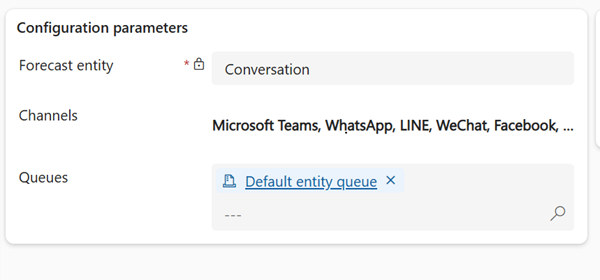
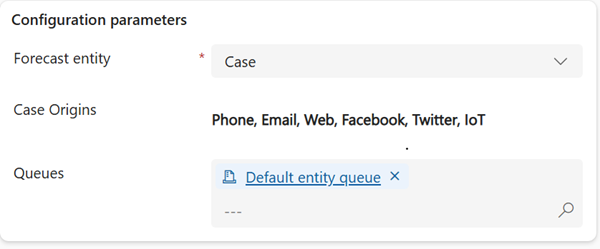
fix(twl300): correct service environment setup guidance

diff --git a/docs/Ex02_Service_Environment/04.md b/docs/Ex02_Service_Environment/04.md
@@ -13,40 +13,43 @@ In this section, you'll import historical contacts, accounts, and cases into you
 
 ## Task 12: Update the Origin column in your environment
 
-1. In the Excel workbook there are references to X and Chat as part of the **Origin** column.  Neither of these are in your demo tenant which means we will get an error when we attempt to import cases. To fix this we are going to update the Origin column.
+1. In the Excel workbook there are references to X and Chat as part of the **Origin** column. Neither of these are in your demo tenant which means we will get an error when we attempt to import cases. To fix this we are going to update the Origin column.
 
-    - In a new browser tab, go to Https://make.powerapps.com.
+   - In a new browser tab, go to https://make.powerapps.com.
 
-2. In the left navigation pane, select **Tables**.
+2. Make sure you are in the correct environment. If not, select the environment drop-down in the top-right corner and select the correct environment.
 
-3. Switch the view to all tables and locate the **Case** table.
+3. In the left navigation pane, select **Tables**.
 
-4. On the **Case** tables **Properties** screen, select **Columns**.
+4. Switch the view to **All** to display all tables, locate and select the **Case** table.
 
-5. Locate and open the **Origin** column.
+5. On the **Case** table page, in the **Schema** section, select **Columns**.
 
-6. Under the **Sync this choice with** field, select **Edit Choice**.
+6. Select **All columns**. Then locate and open the **Origin** column.
 
-7. Locate the **Twitter** choice option, and change the **Label** to **X**.
+7. Under the **Sync this choice with** field, select **Edit Choice**.
 
-8. Select + **New Choice**.
+8. Locate the **Twitter** choice option, and change the **Label** to **X**.
 
-9. Set the **Label** to **Chat.**
+9. Select + **New Choice**.
+
+10. Set the **Label** to **Chat**.
     Your completed Origin Column should resemble the image below: (Do not worry if your values do not match exactly.  We are only concerned with the Labels.)
 
     ![image031.png](../../media/image031.png)
 
+11. Select **Save** to apply the changes to the Origin column.
 ---
 
 ## Task 13: Import supporting Contacts into your environment
 
-1. Open the Customer Service Workspace in your environment.
+1. Open the **Copilot Service Workspace** in your environment.
 
 2. Expand the **site-map**.
 
-3. Using the Navigation on the left, select **Contacts**.
+3. Using the left navigation pane, select **Contacts**.
 
-4. On the **My Active Contact** screen, select **Import from Excel**  and then select **CSV**.
+4. On the **My Active Contact** screen, select the ellipsis (**...**), select  **Import from Excel**,  and then select **Import from CSV**.
 
 5. Select **Choose File**.
 
@@ -56,7 +59,7 @@ In this section, you'll import historical contacts, accounts, and cases into you
 
 7. Select **Next**.
 
-8. On the Import from CSV screen, select **Review Mapping**.
+8. On the **Import from CSV** screen, select **Review Mapping**.
 
     ![image033.png](../../media/image033.png)
 
@@ -72,34 +75,31 @@ In this section, you'll import historical contacts, accounts, and cases into you
 
     ![image034.png](../../media/image034.png)
 
-    > 
-    >   To monitor the progress, select **Track progress**.
+    > To monitor the progress, select **Track progress**.
 
-    >   The contacts that you import here will be used as Primary Contacts for the accounts you are importing next, you will NEED TO WAIT until all of the contacts have been imported.
-
-    > 
+    > The contacts that you import here will be used as Primary Contacts for the accounts you are importing next, you will NEED TO WAIT until all of the contacts have been imported.
 
 ---
 
 ## Task 14: Import supporting accounts into your environment
 
-1. If necessary, open the **Customer Service Workspace** in your environment.
+1. If necessary, open the **Copilot Service Workspace** in your environment.
 
 2. Expand the site-map.
 
 3. In the left navigation pane, select **Accounts**.
 
-4. On the **My Active Accounts** screen, select **Import from Excel** > **CSV**
+4. On the **My Active Accounts** screen, select **Import from Excel** > **Import from CSV**
 
 5. Select **Choose File**.
 
     ![image035.png](../../media/image035.png)
 
-6. Select the Contacts file included in your materials and select Open.
+6. Select the **Accounts** file included in your materials and select Open.
 
 7. Select **Next**.
 
-8. On the Import from CSV screen, select **Review Mapping**  .
+8. On the **Import from CSV** screen, select **Review Mapping**  .
 
     ![image036.png](../../media/image036.png)
 
@@ -113,24 +113,21 @@ In this section, you'll import historical contacts, accounts, and cases into you
 
     ![image037.png](../../media/image037.png)
 
-    > 
-    >   To monitor the progress, select **Track progress**.
+    > To monitor the progress, select **Track progress**.
 
-    >   The Accounts that you import here will be used as Customers for the Cases you are importing next; you will NEED TO WAIT until all of the Accounts have been imported.
-
-    > 
+    > The Accounts that you import here will be used as Customers for the Cases you are importing next; you will need to wait until all of the Accounts have been imported.
 
 ---
 
 ## Task 15: Import supporting cases into your environment
 
-1. If necessary, open the Customer Service Workspace in your environment.
+1. If necessary, open the **Copilot Service Workspace** in your environment.
 
 2. Expand the site-map.
 
 3. In the left navigation pane, select **Cases**.
 
-4. On the My Active Accounts screen, select **Import from Excel** and then select **CSV**.
+4. On the My Active Accounts screen, select **Import from Excel** and then select **Import from CSV**.
 
 5. Select **Choose File**.
 
@@ -146,7 +143,7 @@ In this section, you'll import historical contacts, accounts, and cases into you
 
     1. In the **Name your data map** field, enter `Cases for Intent Agent`.
 
-    1. Map the **Origin (OptionSet)** to **Origin**.
+    1. Map the **Origin** to **Origin (OptionSet)**.
 
     1. Set all the **Do not Modify** fields to **Ignore**.
 
@@ -158,12 +155,8 @@ In this section, you'll import historical contacts, accounts, and cases into you
 
     ![image039.png](../../media/image039.png)
 
-    > 
-    >   To monitor the progress, select **Track progress**.
-
-    >   It will take about 6 hours for all of this information to import. While you can continue to use your system during that time, it is recommended that you do not move on to the next Exercise until the import job has been completed.
-
-    > 
+    > To monitor the progress, select **Track progress**.
+    > It will take about 6 hours for all of this information to import. While you can continue to use your system during that time, it is recommended that you do not move on to the next Exercise until the import job has been completed.
 
 ---
 

diff --git a/docs/Ex02_Service_Environment/03.md b/docs/Ex02_Service_Environment/03.md
@@ -58,7 +58,7 @@ For service representatives to be scheduled for activities, you must create a bo
 
     ![bgk4n3o1.jpg](../../media/bgk4n3o1.jpg)
 
-4. In the left pane, In the **Operations** section, select **Workforce management**.
+4. In the left navigation pane, in the **Operations** section, select **Workforce management**.
 
     ![wubxabyo.jpg](../../media/wubxabyo.jpg)
 
@@ -78,7 +78,7 @@ For service representatives to be scheduled for activities, you must create a bo
 
     ![s8i3bl1v.jpg](../../media/s8i3bl1v.jpg)
 
-9. On the **Skills Configuration** tile, select the vertical ellipses (**…**) and then select **+ New Bookable Resource**.
+9. On the **Skills Configuration** tile, in the **Bookable Resources (User)** section, select **+ New Bookable Resource**. If the command isn't visible, select the vertical ellipses (**⋮**), and then select **+ New Bookable Resource**.
 
     ![p65z9ts0.jpg](../../media/p65z9ts0.jpg)
 
@@ -115,7 +115,7 @@ For service representatives to be scheduled for activities, you must create a bo
 
     ![e380qm0x.jpg](../../media/e380qm0x.jpg)
 
-15. On the command bar for the calendar, select **+ New** and then select **Workhing hours**.
+15. On the command bar for the calendar, select **+ New** and then select **Working hours**.
 
     ![4ggwubr5.jpg](../../media/4ggwubr5.jpg)
 
@@ -133,7 +133,7 @@ For service representatives to be scheduled for activities, you must create a bo
 
     ![j4dirk98.jpg](../../media/j4dirk98.jpg)
 
-17. Repeat Steps 7 through 11 to create bookable resource records and define working hours for the following users:
+17. Repeat Steps 7 through 16 to create bookable resource records and define working hours for the following users:
 
     - Alan Steiner
 
@@ -161,7 +161,7 @@ For service representatives to be scheduled for activities, you must create a bo
 
 ## Task 06: Create shift activity types
 
-1. Open the Copilot Service admin center app.
+1. Open the **Copilot Service admin center** app.
 
 2. In the left navigation pane, select **Workforce management**. Locate the **Shift and schedule management** section.
 
@@ -225,7 +225,7 @@ For service representatives to be scheduled for activities, you must create a bo
 
     ![eonlry86.jpg](../../media/eonlry86.jpg)
 
-4. In the left pane, in the **Workforce management** section, select **Manage External Data**.
+4. In the left navigation pane, in the **Workforce management** section, select **Manage External Data**.
 
    > At the top left of the page, you may need to select the three parallel lines to see the left pane.
 
@@ -307,7 +307,7 @@ For service representatives to be scheduled for activities, you must create a bo
 
 ## Task 08: Create short-term forecasts
 
-1. In **Copilot Service Workspace**, select **Workforce Management** and then select **Forecasting**.
+1. In **Copilot Service Workspace**, under **Workforce Management**, select **Forecasting**.
 
     ![fqusbcxf.jpg](../../media/fqusbcxf.jpg)
 
@@ -403,17 +403,15 @@ Now that you have created a short-term forecast, you will create a long-term for
 
 ## Task 10: Configure short-term case forecasts
 
-1. In **Copilot Service Workspace**, select **Workforce Management** and then select **Forecasting**.
+1. In **Copilot Service Workspace**, under **Workforce Management**, select **Forecasting**.
 
     ![fqusbcxf.jpg](../../media/fqusbcxf.jpg)
 
-2. On the command bar, select **+ New** and then select **Short Term forecast scenario**.
+2. On the command bar, select **+ New** and then select **Short Term Forecast**.
 
     ![5jfwicv4.jpg](../../media/5jfwicv4.jpg)
 
-3. Select **Short Term forecast scenario**.
-
-4. Configure the forecast as follows:
+3. Configure the forecast as follows:
 
     - **Name:** `Sept Short Term - Case`
 
@@ -425,7 +423,7 @@ Now that you have created a short-term forecast, you will create a long-term for
 
     ![image024.png](../../media/image024.png)
 
-5. Configure the **Historical data** section as follows:
+4. Configure the **Historical data** section as follows:
 
     - **Data source:** External
 
@@ -435,7 +433,7 @@ Now that you have created a short-term forecast, you will create a long-term for
 
     ![image025.png](../../media/image025.png)
 
-6. In the **Configuration parameters** section, configure as follows:
+5. In the **Configuration parameters** section, configure as follows:
 
     - **Forecast entity:** **Case**
 
@@ -451,9 +449,9 @@ Now that you have created a short-term forecast, you will create a long-term for
 
     ![217d0b8z.jpg](../../media/217d0b8z.jpg)
 
-7. On the command bar, select **Save**.
+6. On the command bar, select **Save**.
 
-8. On the command bar, select **Create New Snapshot** and then select **Yes**. This schedules the scenario to be run. Select **OK**.
+7. On the command bar, select **Create New Snapshot** and then select **Yes**. This schedules the scenario to be run. Select **OK**.
 
     ![u38659ti.jpg](../../media/u38659ti.jpg)
 
@@ -495,15 +493,17 @@ Now that you have created a short-term forecast, you will create a long-term for
 
 5. In the **Configuration parameters** section, configure as follows:
 
-    - **Forecast entity:** Conversation
+    - **Forecast entity:** Case
 
-    - **Channels:** Select All
+    - **Case Origins:** Select All
 
     - **Queues:** `Default entity queue`
 
     ![image026.png](../../media/image026.png)
 
-6. On the command bar, select **Create New Snapshot** and then select **Yes**. This schedules the scenario to be run. Select **OK**.
+6. Select **Save**.
+
+7. On the command bar, select **Create New Snapshot** and then select **Yes**. This schedules the scenario to be run. Select **OK**.
 
     - Close the **Sept Long Term - Case** tab.
 

diff --git a/docs/Ex02_Sales_Environment/01.md b/docs/Ex02_Sales_Environment/01.md
@@ -35,10 +35,7 @@ In this section, you'll deploy the Demo Hub solution template to provision a dem
 
     ![scmcu069.jpg](../../media/scmcu069.jpg)
 
-    > 
-    >   The process of submitting your request to the queue can take several minutes. It may take one to two hours for environment provisioning to complete.
-
-    > 
+   >   The process of submitting your request to the queue can take several minutes. It may take one to two hours for environment provisioning to complete.
 
 6. The Demo Hub page shows your environment. Verify that your environment status is set to **Ready**.
 
@@ -46,10 +43,7 @@ In this section, you'll deploy the Demo Hub solution template to provision a dem
 
 7. Note the environment details from the Demo Hub page for use in subsequent tasks.
 
-    > 
-    >   The password for the demo environment is automatically generated and will be different from the password for the MDX tenant. You'll need to use the password for the demo environment for the subsequent tasks.
-
-    > 
+   > The password for the demo environment is automatically generated and will be different from the password for the MDX tenant. You'll need to use the password for the demo environment for the subsequent tasks.
 
 ---
 

diff --git a/docs/Ex02_Service_Environment/02.md b/docs/Ex02_Service_Environment/02.md
@@ -31,7 +31,7 @@ Your demo tenant users may be different from the ones listed (For example, you h
 
     - Alex Baker
 
-    - Alica Thomber
+    - Alicia Thomber
 
     - Amy Alberts
 
@@ -53,7 +53,7 @@ Your demo tenant users may be different from the ones listed (For example, you h
 
 ### 02: Check the configuration for existing user accounts
 
->   Repeat this set of steps to configure each existing user account.
+> Repeat this set of steps to configure each existing user account.
 
 1. Select a user account.
 
@@ -199,9 +199,6 @@ As part of the data import process, we are going to be we are going to be adding
     - **System Administrator**
 
     - **Workforce Management application access**
-
-   > [!IMPORTANT]
-   > The **Workforce Management application access** role may not be available. If the role is not listed, assign the available Customer Service roles shown in your environment and continue with the lab.
 
 ---
 

diff --git a/docs/Ex02_Service_Environment/01.md b/docs/Ex02_Service_Environment/01.md
@@ -23,7 +23,7 @@ You've selected the **Service Transformation with AI** workshop. In this task, y
 ---
 
 > [!NOTE]
-> If the DemoHub URL is not accessible, go to [Dynamics 365](https://www.microsoft.com/en-us/dynamics-365), select **Try for free**, then select **Dynamics 365 Contact Center** trial. Enter your **Job Title**, **Country/region**, and **Phone number**, then select **Submit**.
+> If the DemoHub URL is not accessible, go to [Dynamics 365](https://www.microsoft.com/en-us/dynamics-365), select **Try for free**, then select **Dynamics 365 Customer Service** trial. Enter your **Job Title**, **Country/region**, and **Phone number**, then select **Submit**.
 
 [← Select a workshop](../Ex00/00_03.html){: .btn .mr-2 }
 [Configure users and licenses →](02.html){: .btn .btn-purple }

diff --git a/docs/Ex00/00_01.md b/docs/Ex00/00_01.md
@@ -11,7 +11,7 @@ Before you create a demo environment you must request a tenant.
 
 There are limitations to the number of demo tenants that you can claim. Demo tenants expire. You can request an extension for a demo tenant. You can delete existing tenants.
 
-{: .note }
+> [!NOTE]
 > If you require support deleting, updating, or extending a tenant, [submit a request](https://cdx.transform.microsoft.com/submit-request) to the MDX support team.
 
 ### Key steps
